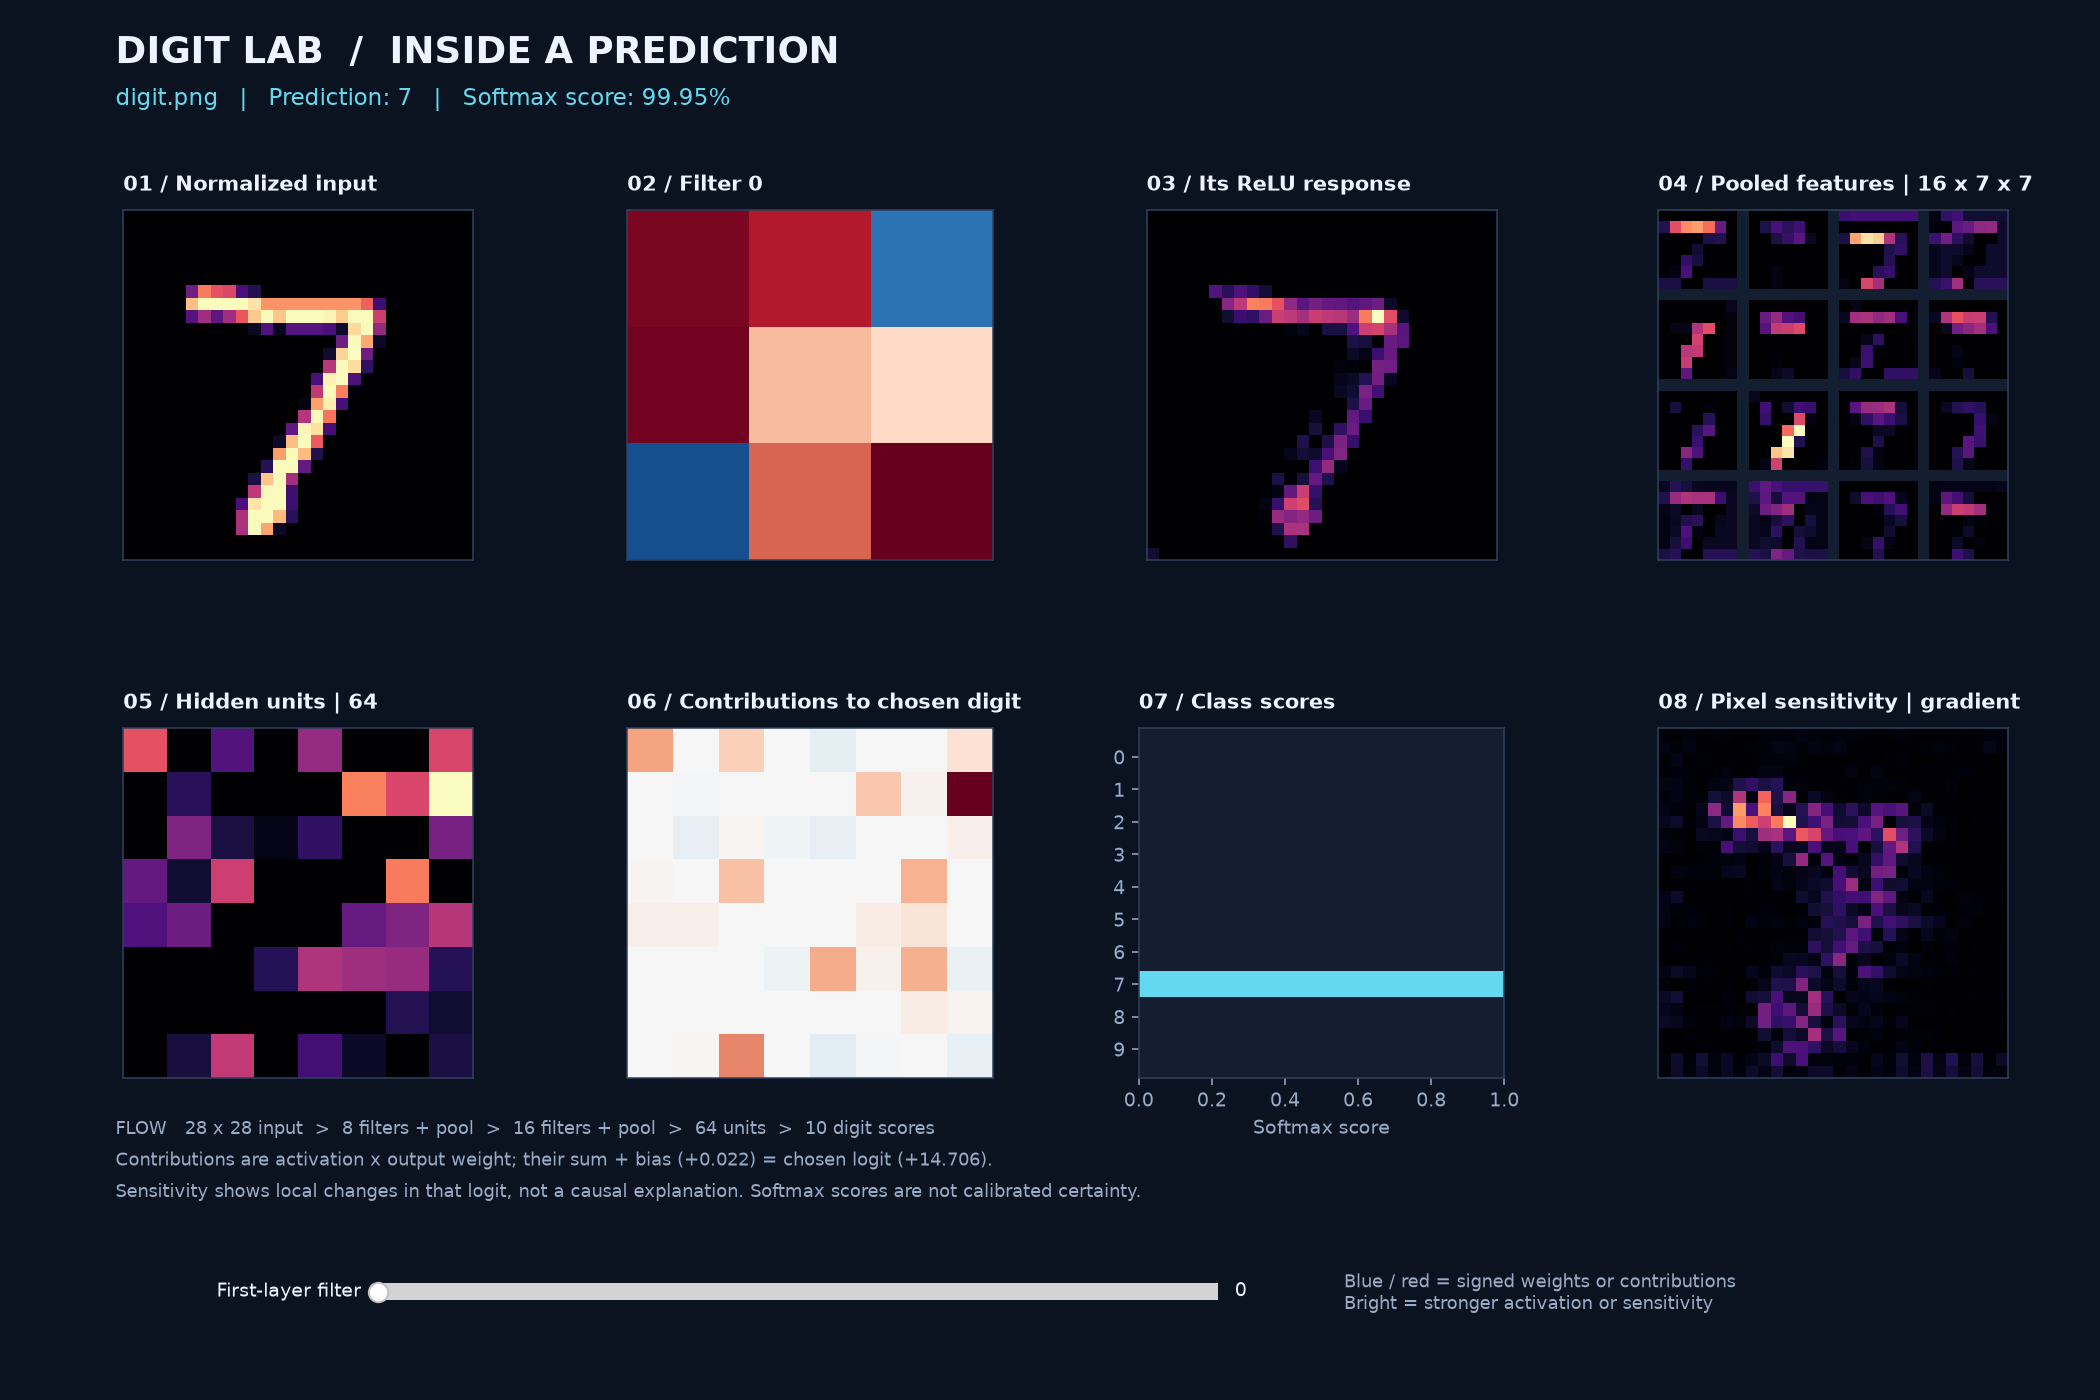
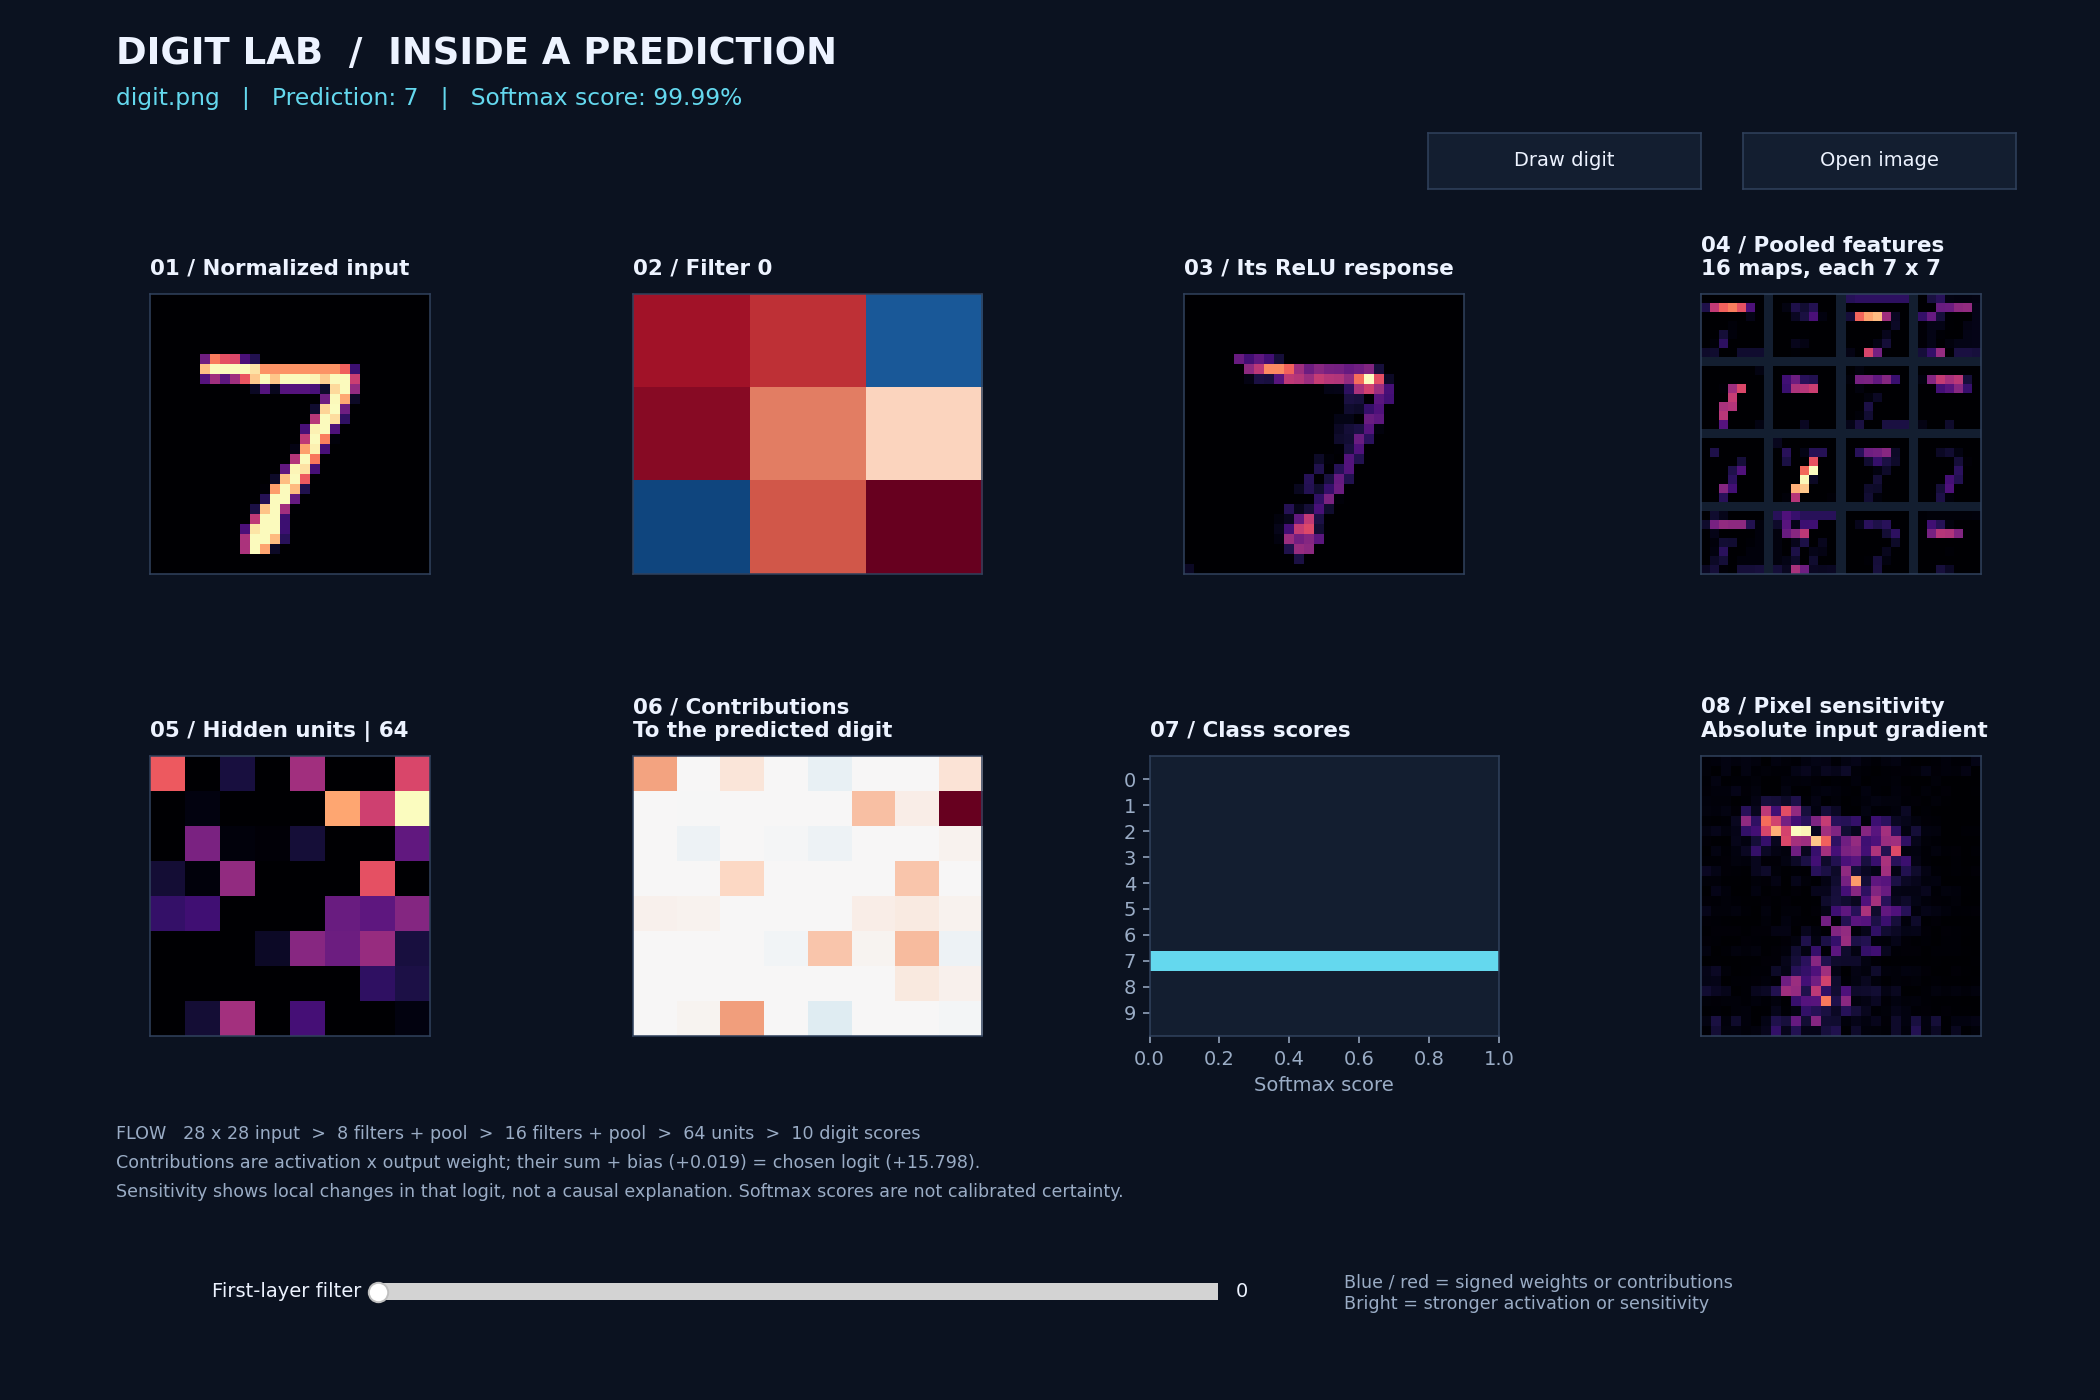
Add Windows and Linux CPU checks and refresh project guide

diff --git a/docs/verification.md b/docs/verification.md
@@ -1,26 +1,40 @@
 # Verification
 
-Verified on Windows with Python 3.12.14, PyTorch 2.15.0+cpu,
-torchvision 0.29.2+cpu, and Matplotlib 3.11.2 (TkAgg desktop / Agg exports).
+## Local verification on November 7, 2026
 
-- `python -m unittest discover -v`: five tests passed, including checkpoint
-  round-trip predictions, actual weight updates, logit reconstruction from
-  contributions, input preprocessing, dashboard drawing, and filter switching.
-- `python train.py --epochs 2 --no-ui`: 55,000 training examples, 5,000
-  validation examples, 1,720 optimizer steps, seed 42, two CPU threads.
-- Final validation accuracy: 98.06%; final test accuracy: 98.12% on all
-  10,000 test examples. Training plus evaluation took about 81 seconds on the
-  verification machine (excluding initial dataset download).
-- `python predict.py examples/digit.png --no-ui --output runs/prediction.png`:
-  predicted 7, matching the example label, with a 99.95% softmax score.
-- Desktop TkAgg window drew successfully; Pause/Resume processed through
-  its event loop and Stop set the expected state.
-- Both exported dashboard layouts were visually inspected.
+Windows CPU checks used Python 3.14.5, PyTorch 2.12.0+cpu, torchvision 0.27.0+cpu, Matplotlib 3.10.9, NumPy 2.4.6, and Pillow 12.2.0. The dependency ranges are in `requirements.txt`.
+Python 3.11 and 3.12 are the versions targeted by the Windows/Linux CI matrix.
+The local Python 3.14 run is an additional measured environment.
 
-The sample image is the first MNIST test image. The screenshots and
-`example-metrics.json` show the measured run, not a promised accuracy for other
-training settings or custom images. GPU execution was not tested.
+- All 18 unittest cases passed. They cover weight updates, checkpoint round trips,
+  preprocessing, button and drawing events, run preservation and selection, and
+  evaluation counts and exports. Tests use synthetic data and temporary models.
+- `python train.py --no-ui --epochs 4 --run-dir runs/commit10-verification`
+  completed 4 epochs and 3,440 optimizer steps on 55,000 training images,
+  with 5,000 validation images, seed 42, and two CPU threads.
+- Latest weights scored 98.39% on all 10,000 test images.
+  Best validation accuracy was 98.48% at epoch 3.
+- The included example was predicted as 7, with a 99.99%
+  softmax score, using the latest weights.
+- The saved-model evaluator reproduced the latest checkpoint's full-test result.
+  Its PNG and JSON exports include confusion counts, per-digit metrics, and mistakes.
 
-The local deliverable contains `checkpoints/mnist.pt` from this run; generated
-checkpoints and downloaded datasets are ignored by Git. After a fresh clone,
-run training before prediction.
+`training.png`, `prediction.png`, `evaluation.png`, and `example-metrics.json` in
+this folder come from this measured run. The inspector screenshot includes the
+Open image and Draw digit controls. Screenshots use Agg rendering. Desktop TkAgg
+availability was checked by the doctor in the preceding diagnostics iteration.
+The included digit is the first MNIST test image.
+
+Generated datasets, run folders, and model weights are ignored by Git. After a
+fresh clone, follow the README setup and training steps to create weights.
+
+## Automated checks
+
+`.github/workflows/tests.yml` installs CPU dependencies, runs headless diagnostics,
+and executes `python -m unittest discover -v` on Windows and Linux with Python
+3.11 and 3.12. It runs on pushes to main, pull requests, and manual dispatch.
+MNIST downloads are unnecessary for these tests. Desktop GUI and GPU execution
+remain outside the CI checks. The Actions page records each remote run's status.
+
+The workflow follows the upstream [checkout](https://github.com/actions/checkout)
+and [setup-python](https://github.com/actions/setup-python) usage documentation.

diff --git a/README.md b/README.md
@@ -1,17 +1,22 @@
 # Digit Lab: Visualizable Neural Network
 
-A small PyTorch CNN with two separate workflows: watch it learn handwritten digits,
-then inspect how it processes an image of your own. The views display actual model
+A small PyTorch CNN for watching handwritten-digit training, inspecting files or
+drawings, and evaluating saved models. The views display actual model
 tensors at a high level without rendering thousands of connections every batch.
 
 ![Training dashboard](docs/training.png)
 ![Image inspector](docs/prediction.png)
+![Saved-model evaluation](docs/evaluation.png)
 
 ## Setup
 
-Use Python 3.11 or 3.12 with a desktop GUI. In the repository directory:
+Use Python 3.11 or 3.12 with a desktop GUI. The CPU test workflow targets these
+versions on Windows and Linux. For headless use, add `--no-ui` to the workflow
+commands below. Start from a fresh clone:
 
 ```sh
+git clone https://github.com/VivanNyati/Visualizable-Neural-Network.git
+cd Visualizable-Neural-Network
 python -m venv .venv
 # Windows PowerShell:
 .venv\Scripts\Activate.ps1
@@ -40,10 +45,20 @@ a small first training session from that same terminal.
 python main.py doctor
 python train.py --epochs 1 --max-train-samples 2048 --max-eval-samples 256
 python predict.py examples/digit.png --run latest
+python evaluate.py --run latest --weights best
 ```
 
 The small training run is a startup check. It downloads MNIST on first use
 and saves a checkpoint that the prediction command can open.
+
+For the complete headless workflow, run these after setup:
+
+```sh
+python main.py doctor --no-ui --device cpu
+python train.py --no-ui --device cpu --epochs 1 --max-train-samples 2048 --max-eval-samples 256
+python predict.py examples/digit.png --run latest --no-ui --output runs/first-prediction.png
+python evaluate.py --run latest --weights best --no-ui --max-eval-samples 500
+```
 
 The doctor reports the active Python executable, package imports and versions,
 rendering backend, selected device, local MNIST data, and checkpoint load
@@ -247,6 +262,13 @@ The same `--run`, `--weights`, and `--runs-dir` selection options work as in
 prediction. `python main.py evaluate ...` is an equivalent entry point.
 
 ## Code layout and checks
+
+GitHub Actions runs the unittest suite and headless diagnostics on Windows and
+Linux with Python 3.11 and 3.12 for pushes to `main` and pull requests. The tests
+use synthetic data and temporary checkpoints, so they run without downloading
+MNIST. View results in the repository's [Actions page](https://github.com/VivanNyati/Visualizable-Neural-Network/actions).
+The [verification notes](docs/verification.md) record the local environment and
+the measured run used for the screenshots.
 
 See the [improvement roadmap](docs/roadmap.md) for the next ten focused changes.
 

diff --git a/docs/roadmap.md b/docs/roadmap.md
@@ -15,7 +15,7 @@ later items may be adjusted as user feedback reveals better priorities.
 | 7 | Add a saved-model evaluation view | Evaluate an existing checkpoint with a confusion matrix, per-digit accuracy, and example mistakes. Separate full-test and subset results and avoid retraining. | Implemented |
 | 8 | Improve dashboard layout and readability | Make spacing, labels, color legends, and sample captions readable at common window sizes. Inspect both training and prediction views at multiple sizes. | Implemented |
 | 9 | Add setup diagnostics and actionable errors | Add a diagnostic command for dependencies, GUI support, device availability, data, and checkpoints. Explain how to fix failures and document a fresh-clone walkthrough. | Implemented |
-| 10 | Automate checks and refresh project documentation | Add GitHub Actions for CPU tests on Windows and Linux, document supported versions, and update screenshots and the quick start to match the shipped workflow. | Planned |
+| 10 | Automate checks and refresh project documentation | Add GitHub Actions for CPU tests on Windows and Linux, document supported versions, and update screenshots and the quick start to match the shipped workflow. | Implemented |
 
 ## Commit 1 validation
 
